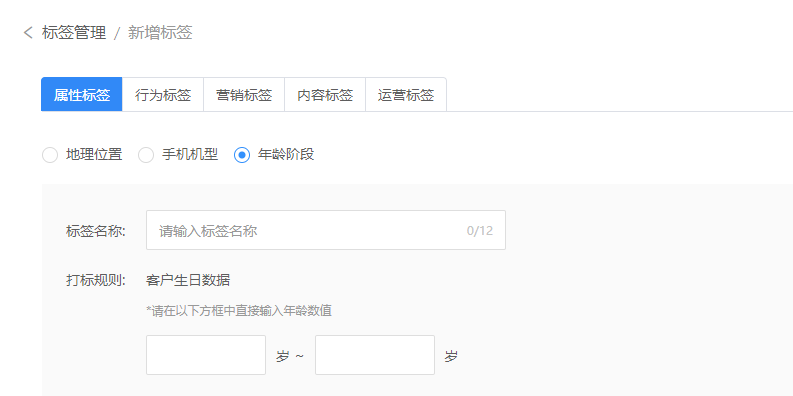
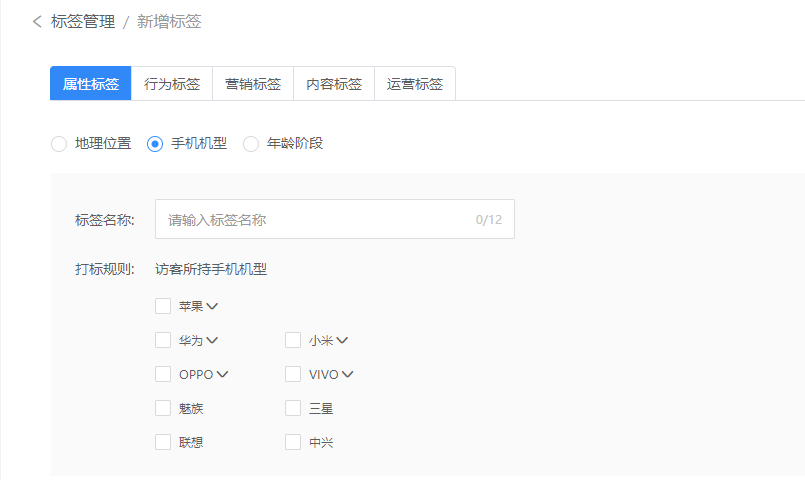
GitBook: [master] one page and 12 assets modified

diff --git a/ke-hu-dang-an/ke-hu-biao-qian.md b/ke-hu-dang-an/ke-hu-biao-qian.md
@@ -18,9 +18,9 @@ description: >-
 
 客户微信上报地理位置：微信公众号获取用户上报的位置；
 
- 配置规则：1.数据之间可以取交集或者并集； 2.配置具体区域（省、市组合） 
+ 【配置规则】1.数据之间可以取交集或者并集； 2.配置具体区域（省、市组合） 
 
-举例：⼀线城市 华南区域 重点经销区域 广东区域
+【举例】⼀线城市 华南区域 重点经销区域 广东区域
 
 ![](../.gitbook/assets/image%20%281%29.png)
 
@@ -28,21 +28,21 @@ description: >-
 
 通过内容页面获取的机型数据 
 
-配置规则：选择⼿机品牌和具体机型
+【配置规则】选择⼿机品牌和具体机型
 
-举例：安卓用户、苹果用户、苹果最新机型用户
+【举例】安卓用户、苹果用户、苹果最新机型用户
 
-![](../.gitbook/assets/image%20%282%29.png)
+![](../.gitbook/assets/image%20%283%29.png)
 
 #### 年龄阶段
 
 通过Excel或者⼿动写⼊的“⽣⽇”字段数据
 
-配置规则：手动编辑年龄段
+【配置规则】手动编辑年龄段
 
-举例：90后、80后、00后
+【举例】90后、80后、00后
 
-![](../.gitbook/assets/image%20%283%29.png)
+![](../.gitbook/assets/image%20%285%29.png)
 
 ### 行为标签（基于用户行为数据提取的模型标签）
 
@@ -58,21 +58,21 @@ description: >-
 
 经过验证的手机号码：通过表单验证码验证和小程序授权所得
 
-配置规则：选择ID选项，选项之间可以取交集或者并集
+【配置规则】选择ID选项，选项之间可以取交集或者并集
 
-举例：可连接手机号客户、高度可连接客户
+【举例】可连接手机号客户、高度可连接客户
 
-![](../.gitbook/assets/image%20%284%29.png)
+![](../.gitbook/assets/image%20%288%29.png)
 
 #### 互动积极性
 
 用户一段时间或累计被追踪到的互动次数
 
-配置规则：选项之间可以取交集或者并集
+【配置规则】选项之间可以取交集或者并集
 
-举例：高度活跃客户、中度活跃客户、7天内高度活跃
+【举例】高度活跃客户、中度活跃客户、7天内高度活跃
 
-![](../.gitbook/assets/image%20%285%29.png)
+![](../.gitbook/assets/image%20%289%29.png)
 
 #### 转化意向度
 
@@ -82,19 +82,69 @@ description: >-
 
 支付成功：指的是插件类活动支付，如砍价支付、拼团支付
 
-配置规则：选项之间可以取交集或者并集
+【配置规则】选项之间可以取交集或者并集
 
-举例：高度意向客户、中度意向客户、公众号活跃客户
+【举例】高度意向客户、中度意向客户、公众号活跃客户
 
-![](../.gitbook/assets/image%20%286%29.png)
+![](../.gitbook/assets/image%20%2812%29.png)
 
 #### 传播影响力
 
 访客影响⼀度⼈脉⼈数，即由A带来的访客
 
-配置规则：访客累计影响⼀度人脉⼈数（影响人数）的数值范围
+【配置规则】访客累计影响⼀度人脉⼈数（影响人数）的数值范围
 
-举例：KOL、KOC
+【举例】KOL、KOC
 
+![](../.gitbook/assets/image%20%286%29.png)
 
+### 营销标签（基于用户与系统渠道发生交互提取的标签）
+
+接触渠道：所有接触过的渠道和接触频次
+
+【配置规则】⽆须配置，系统默认生成
+
+【举例】杭州门店（18）、A某（10）
+
+![](../.gitbook/assets/image%20%2811%29.png)
+
+### 内容标签（基于用户与营销内容发生交互提取的标签）
+
+#### 内容兴趣
+
+基于用户与内容交互的行为的数据整理而来，行为包括浏览/ 分享/点击/提交表单
+
+【配置规则】运营者需在作品配置面板处手动为不同的作品打上合适的标签。定义⼀个N值，N不等于0则标签实例成功。⽤户 访问作品⼤于等于10秒，N=1；⽤户点击作品⼀ 次，N=1；⽤户在作品中提交⼀次表单N=3。⼀ 个⽤户该标签的值为每次N值的累加
+
+【举例】新品宣导、线下会议邀请
+
+![](../.gitbook/assets/image%20%284%29.png)
+
+#### 内容访问频次
+
+用户一段时间内或累计浏览过的内容次数
+
+【配置规则】选项之间可以取交集或者并集
+
+【举例】⻓期⾼频浏览 、内容访问频繁
+
+![](../.gitbook/assets/image.png)
+
+#### 阅读时间习惯
+
+⽤户浏览内容的时间段的频次
+
+【配置规则】选项之间可以取交集或者并集
+
+【举例】早读一族、夜猫一族
+
+![](../.gitbook/assets/image%20%287%29.png)
+
+#### 运营标签
+
+【配置规则】pc端和全员营销小程序手动添加，后续外部导入符合标签的客户名单做匹配
+
+【举例】目标客户、高级客户、重点关注客户
+
+![](../.gitbook/assets/image%20%282%29.png)
 
